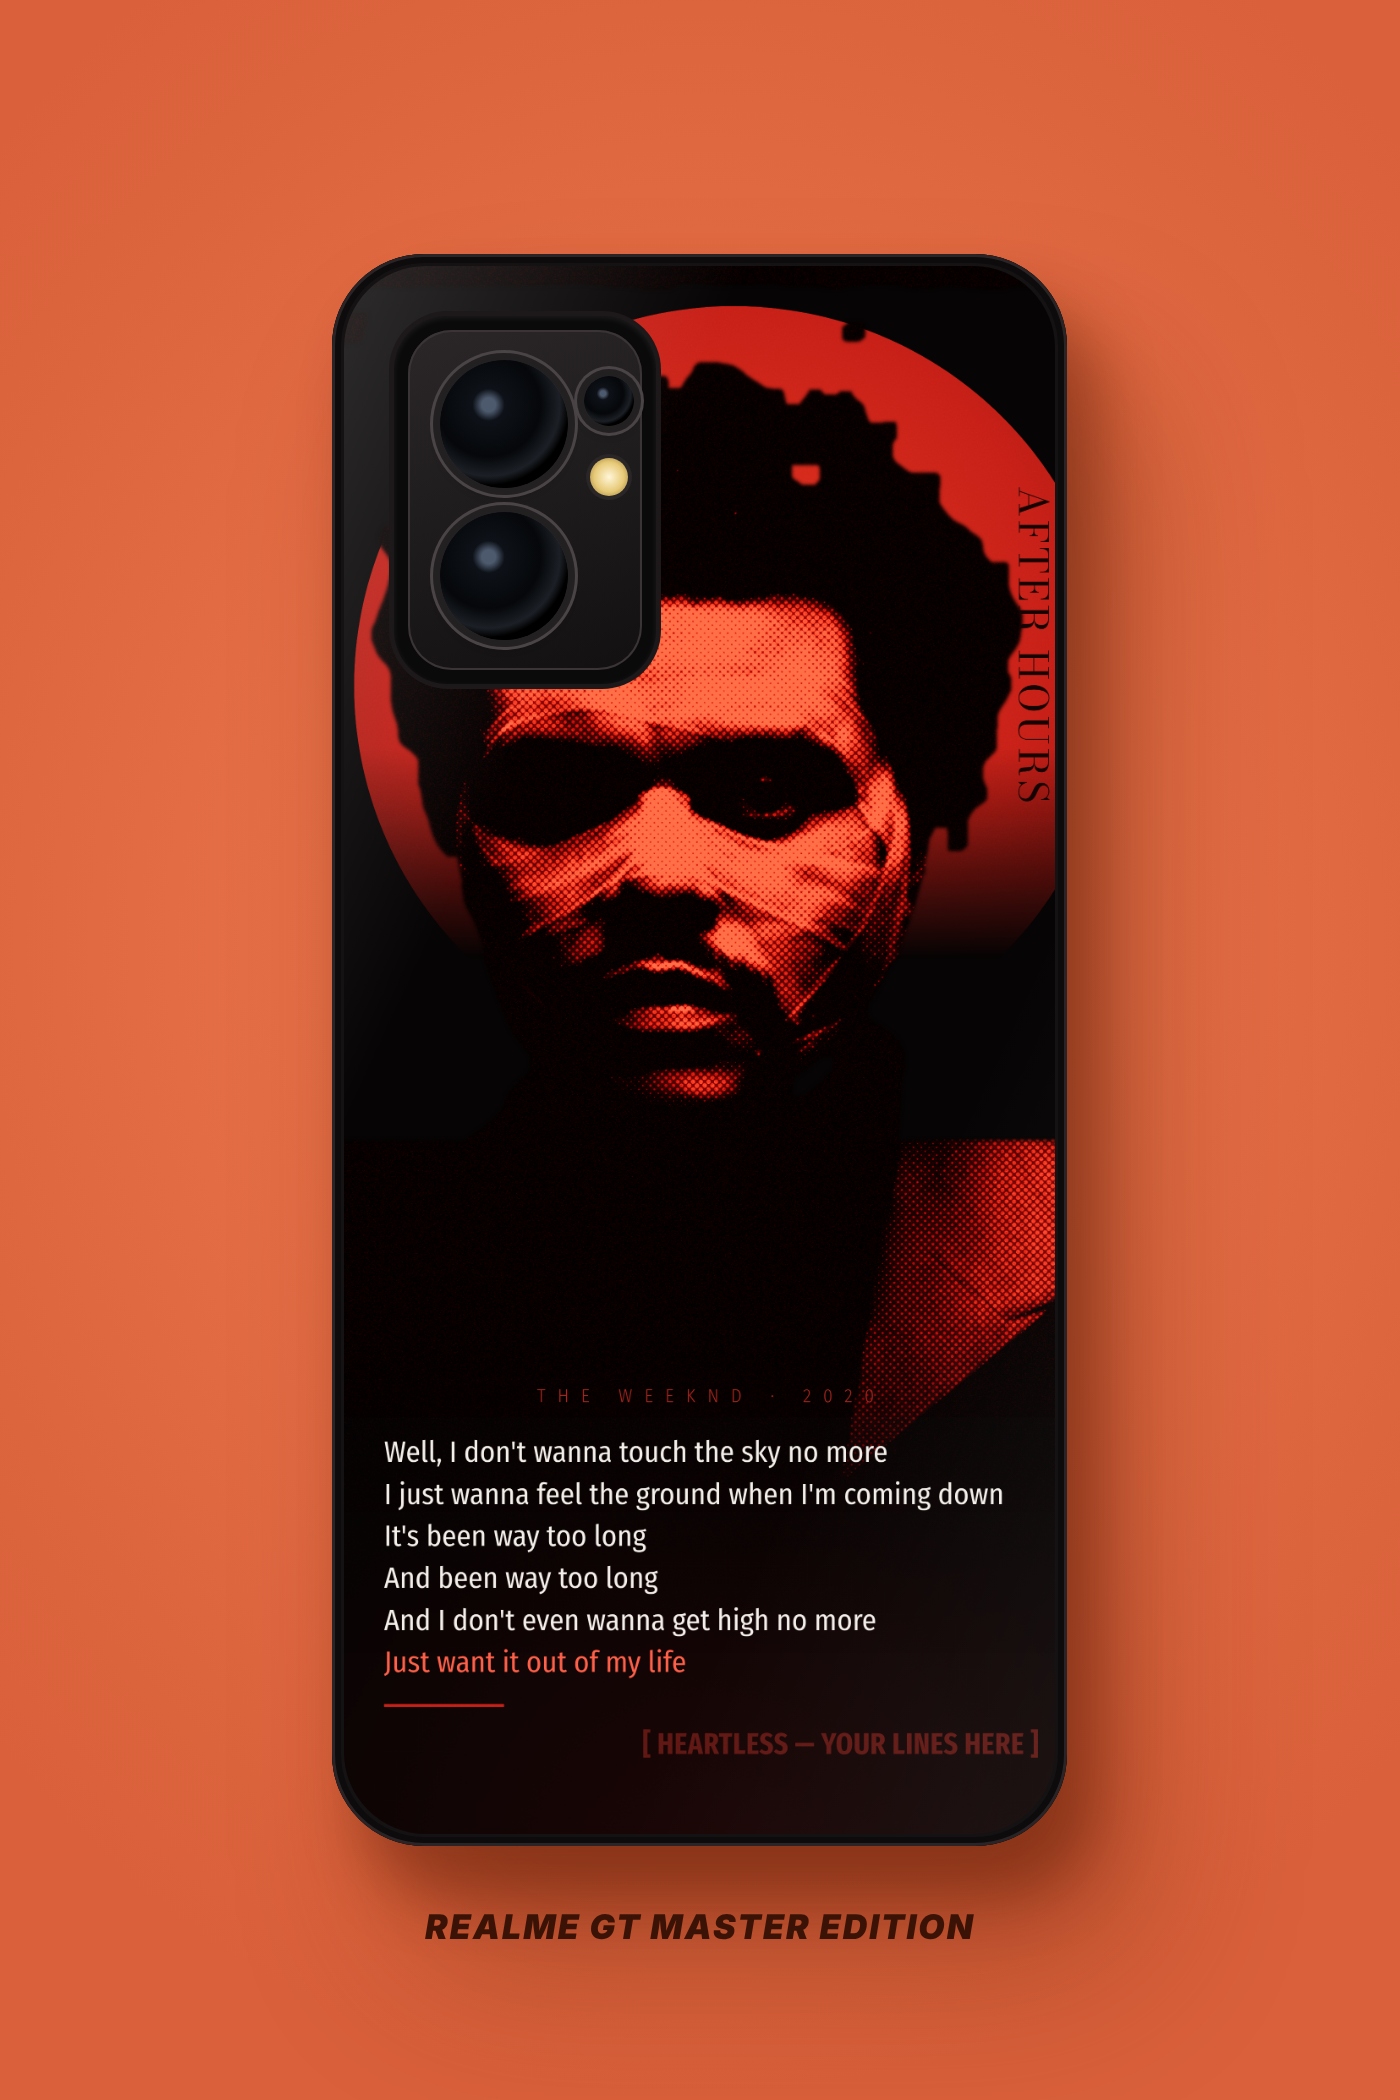
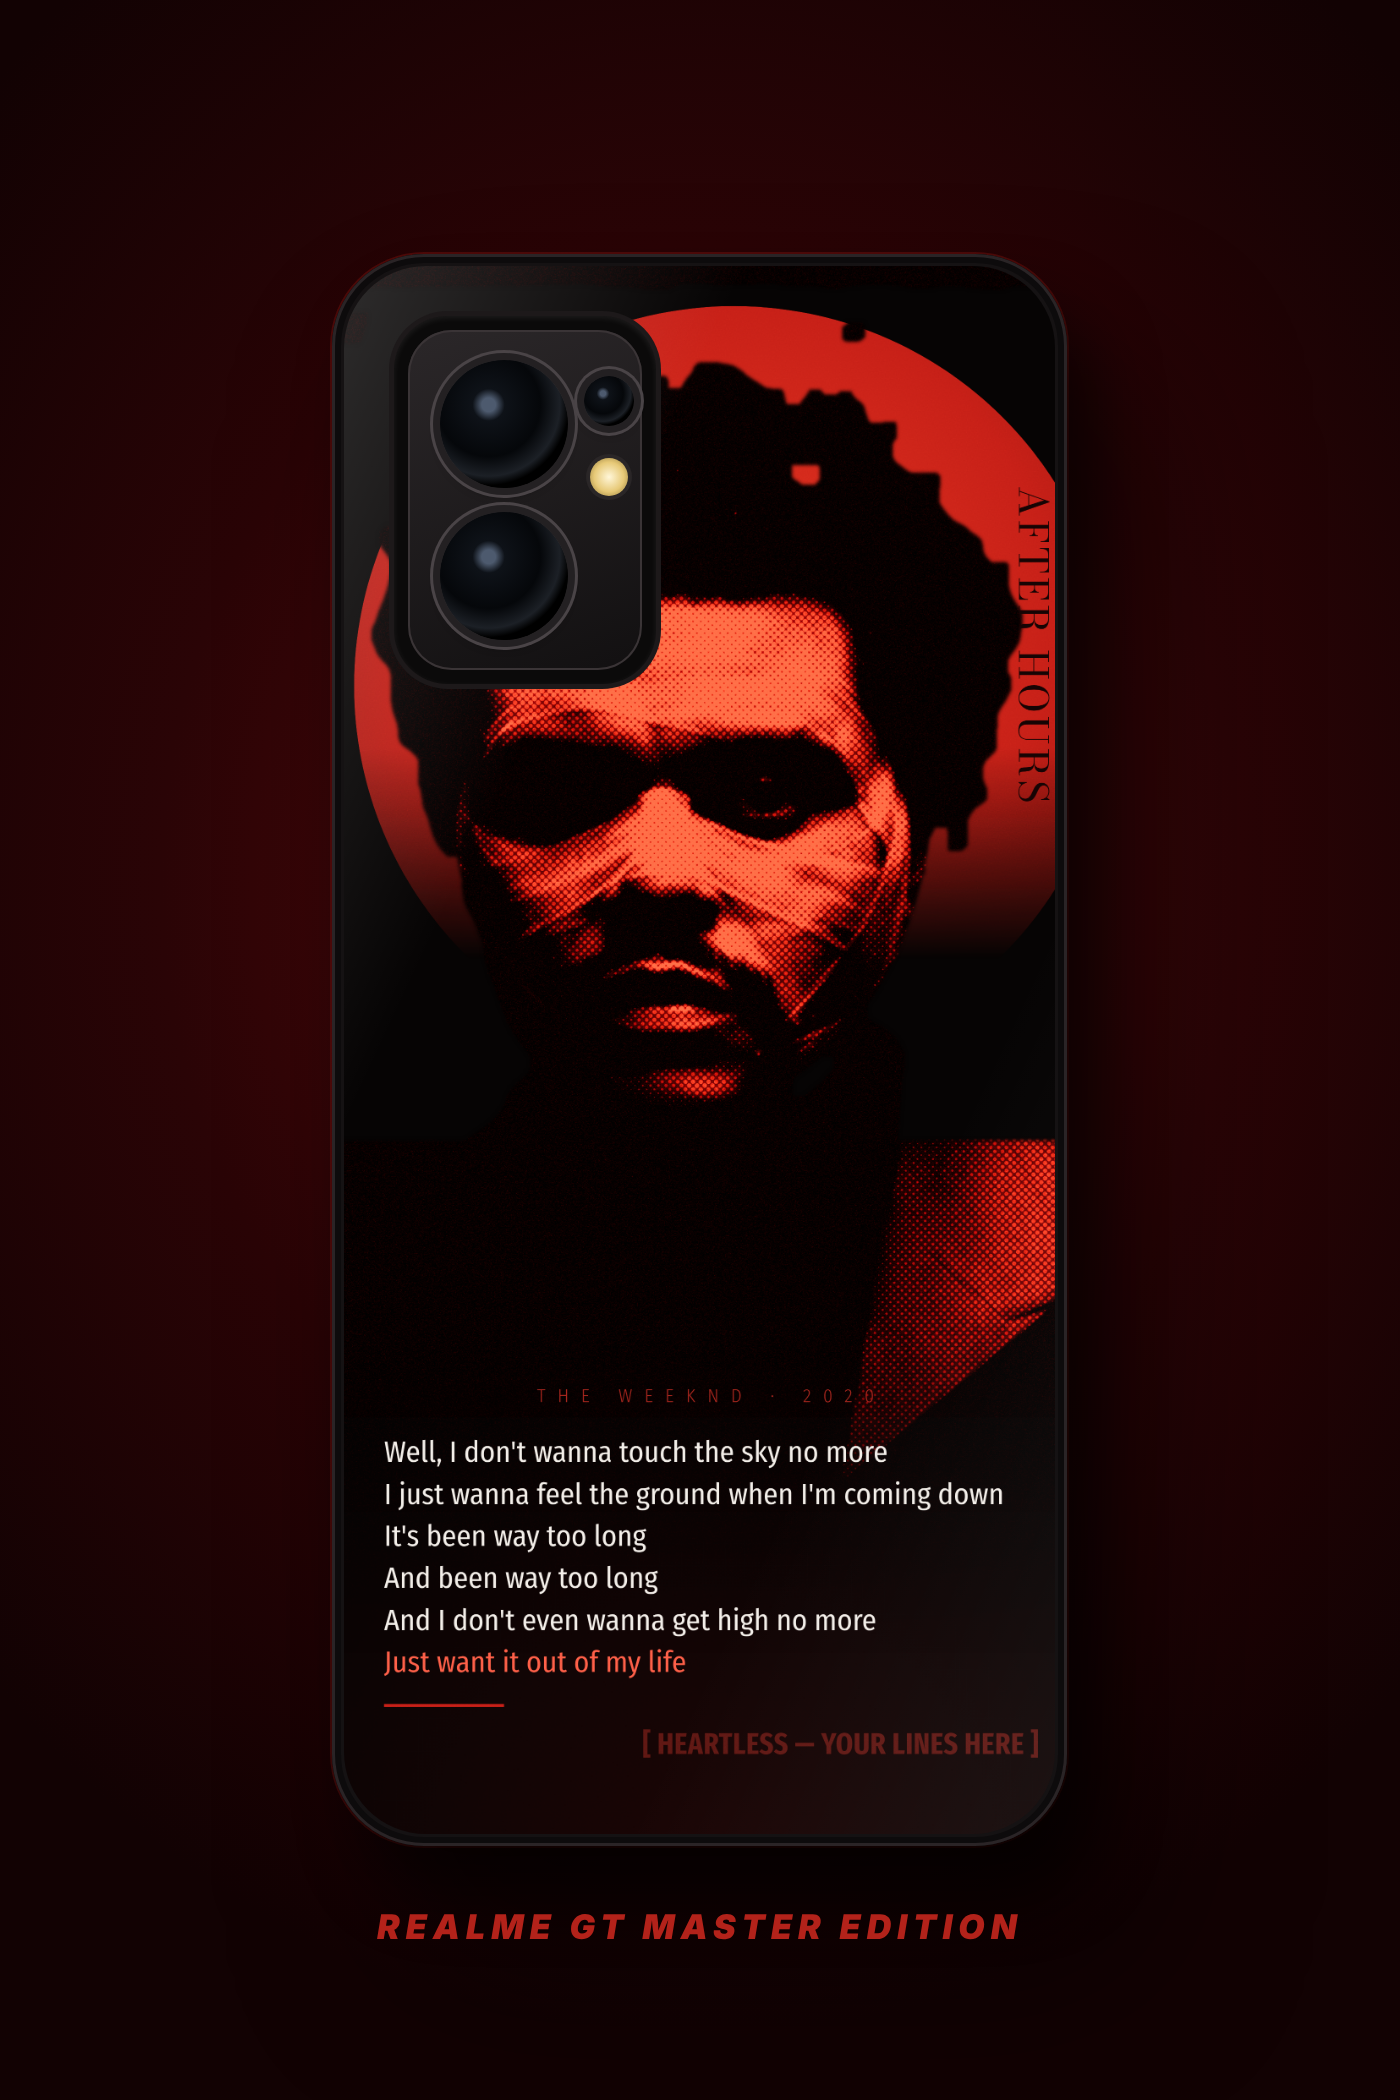
موكاب v2: خلفية أحمر دم ونبيتي بدل البرتقالي
Claude-Session: https://claude.ai/code/session_011VfX9anDrDiMrvdnRutvkn

diff --git a/ghelaf/v2/mockup.html b/ghelaf/v2/mockup.html
@@ -5,14 +5,14 @@
 <title>Case Mockup</title>
 <style>
 /* موكاب ريلمي GT ماستر إديشن — الوحدة ٠٫١ مم برضه. مكان الكاميرا تقريبي */
-:root { --bg1: #ee7a4f; --bg2: #d9603a; }
+:root { --bg1: #5a0a0c; --bg2: #120203; }
 html, body { margin: 0; }
 #scene { position: relative; width: 1400px; height: 2100px; overflow: hidden;
-  background: radial-gradient(70% 55% at 50% 45%, var(--bg1), var(--bg2)); }
+  background: radial-gradient(70% 55% at 50% 42%, var(--bg1), #2a0406 55%, var(--bg2)); }
 
 .phone { position: absolute; left: 332px; top: 254px; width: 735px; height: 1592px; border-radius: 92px;
   background: #151213;
-  box-shadow: 30px 50px 60px rgba(90,25,5,.45), 70px 120px 160px rgba(90,25,5,.35),
+  box-shadow: 30px 50px 60px rgba(0,0,0,.55), 70px 120px 160px rgba(0,0,0,.5), 0 0 0 2px rgba(196,30,22,.25),
               inset 0 0 0 3px #2a2426, inset 0 0 0 9px #0d0b0c; }
 .print { position: absolute; inset: 12px; border-radius: 82px; overflow: hidden; }
 /* ملف الطباعة فيه ٣ مم نزيف — نقصه هنا */
@@ -35,7 +35,7 @@ html, body { margin: 0; }
   background: radial-gradient(circle, #fff6d8, #e7c977 55%, #8a7234); box-shadow: 0 0 0 4px #2a2627; }
 
 .code { position: absolute; left: 0; right: 0; top: 1910px; text-align: center;
-  font: italic 900 34px/1 'Inter', sans-serif; letter-spacing: 2px; color: #3b1206; }
+  font: italic 900 34px/1 'Inter', sans-serif; letter-spacing: 6px; color: #b3221a; }
 </style>
 </head>
 <body>
